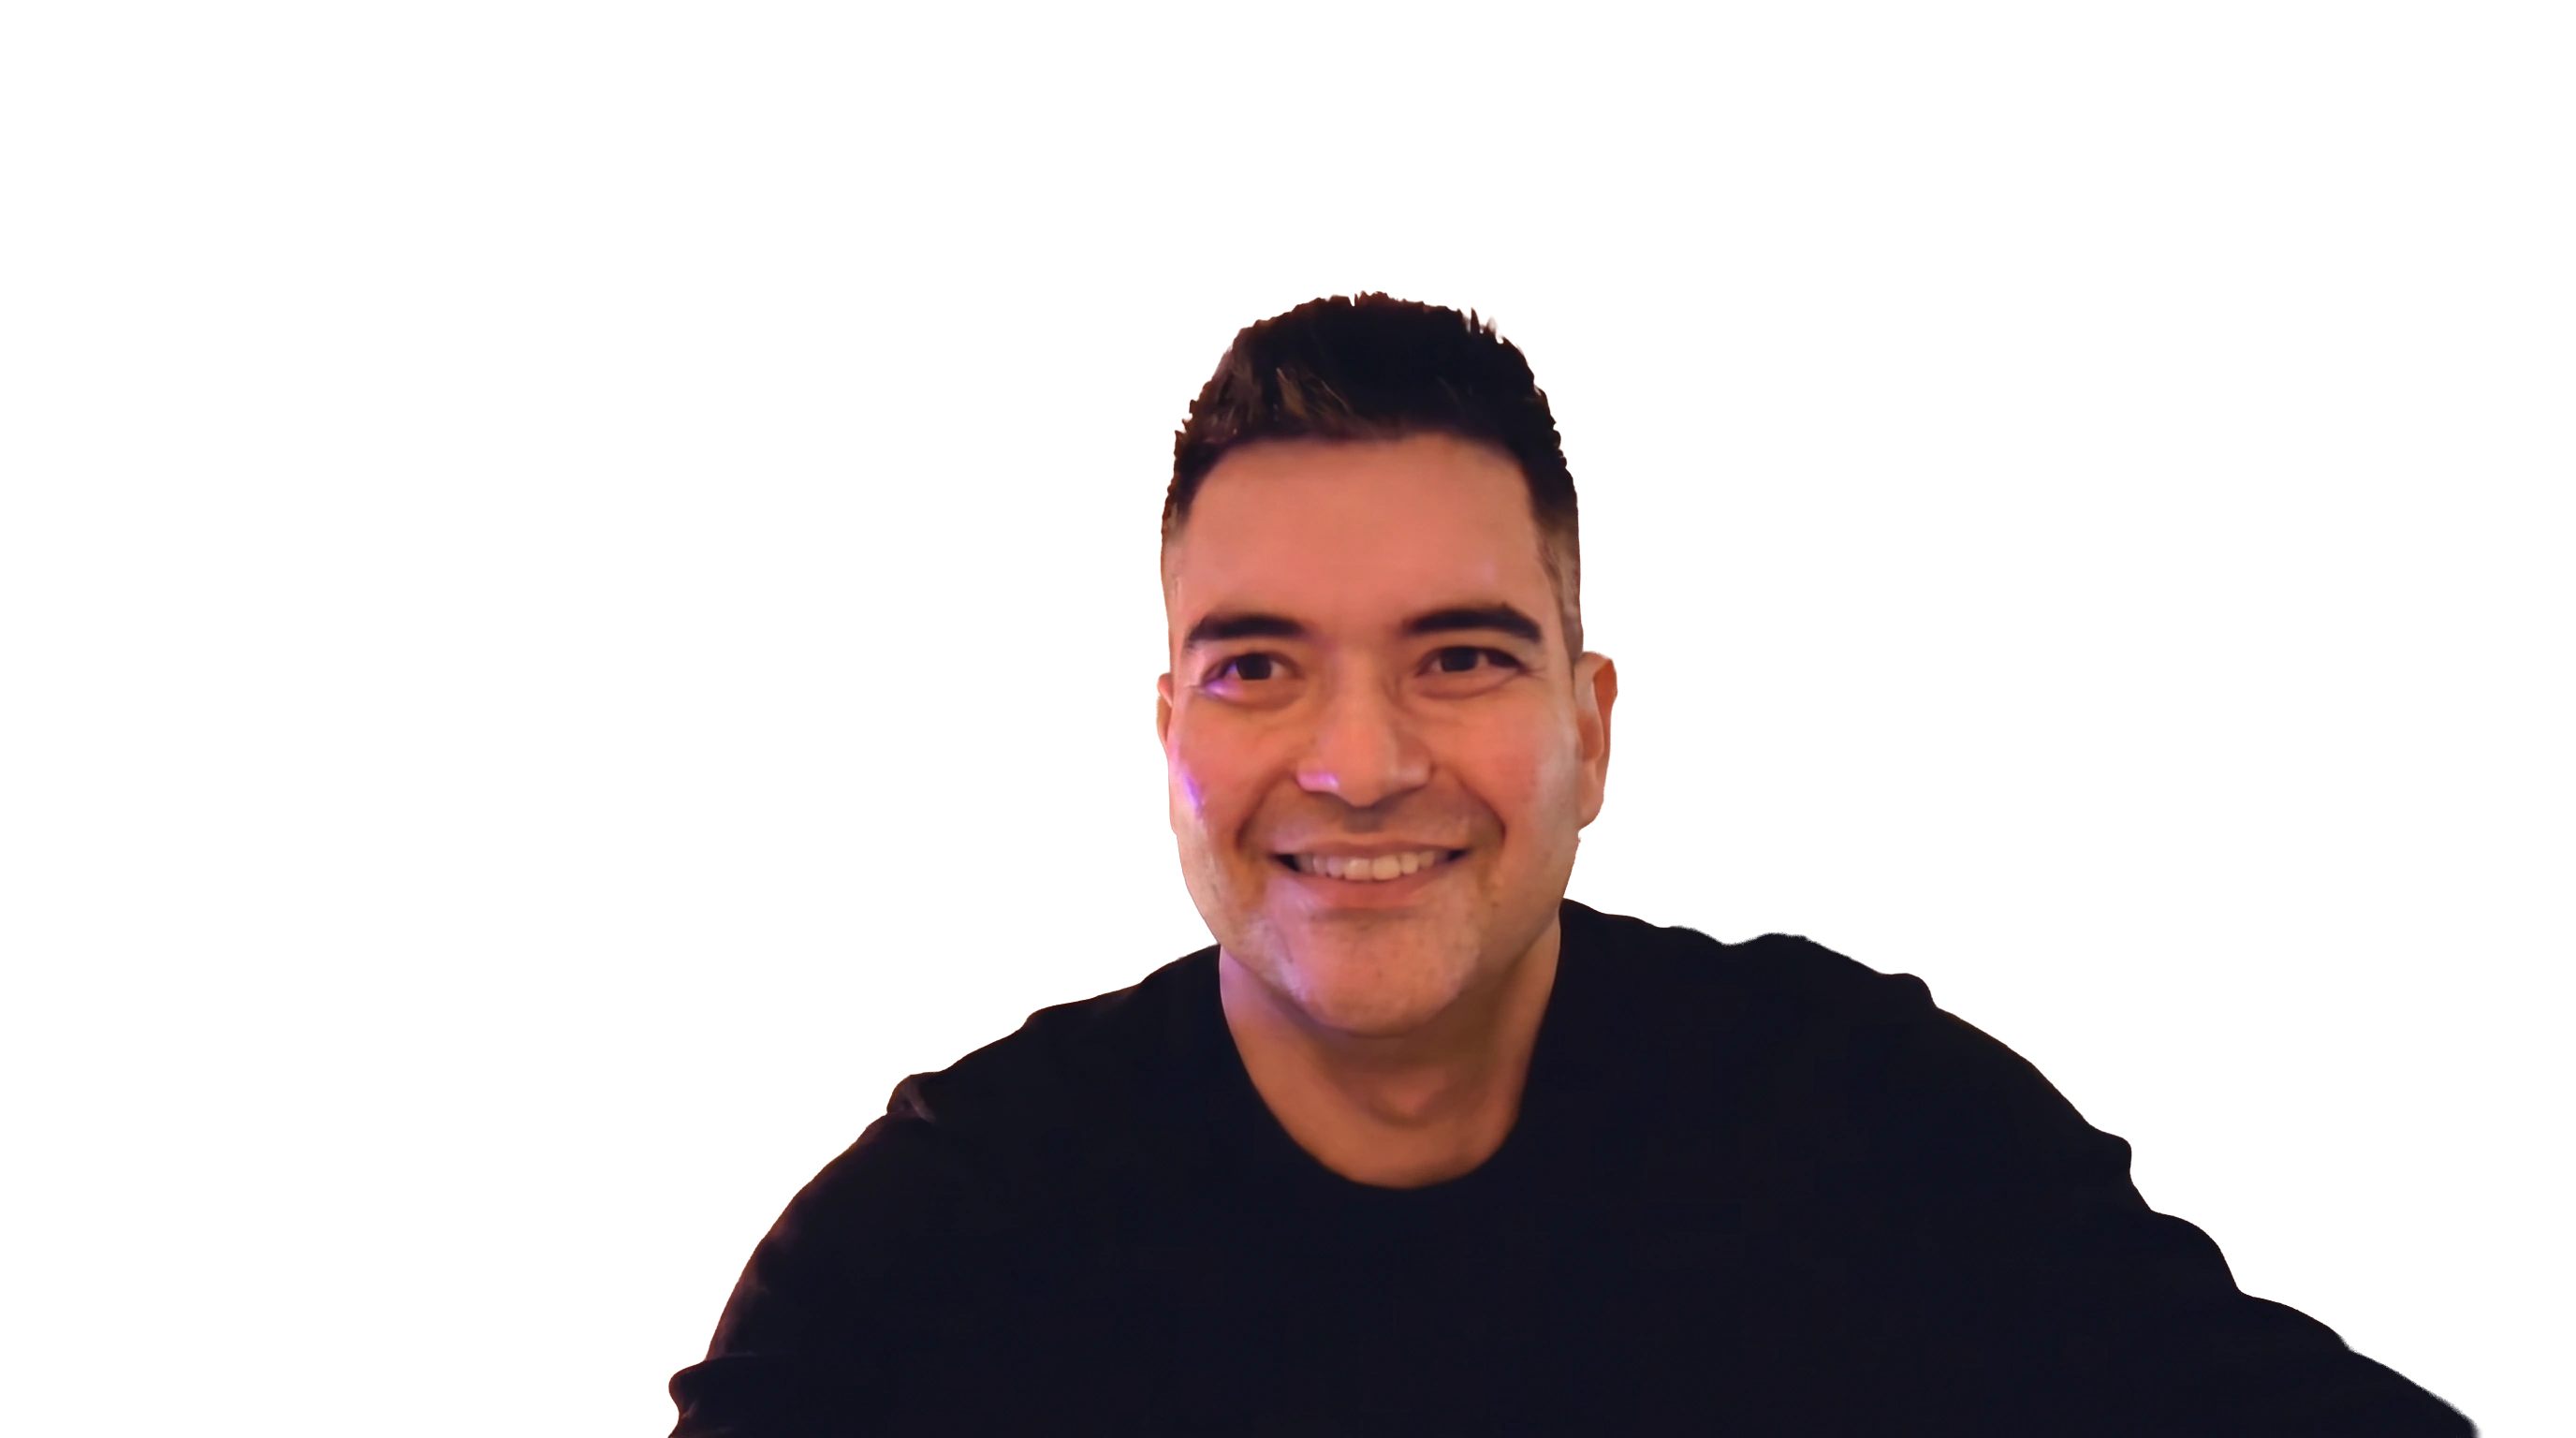
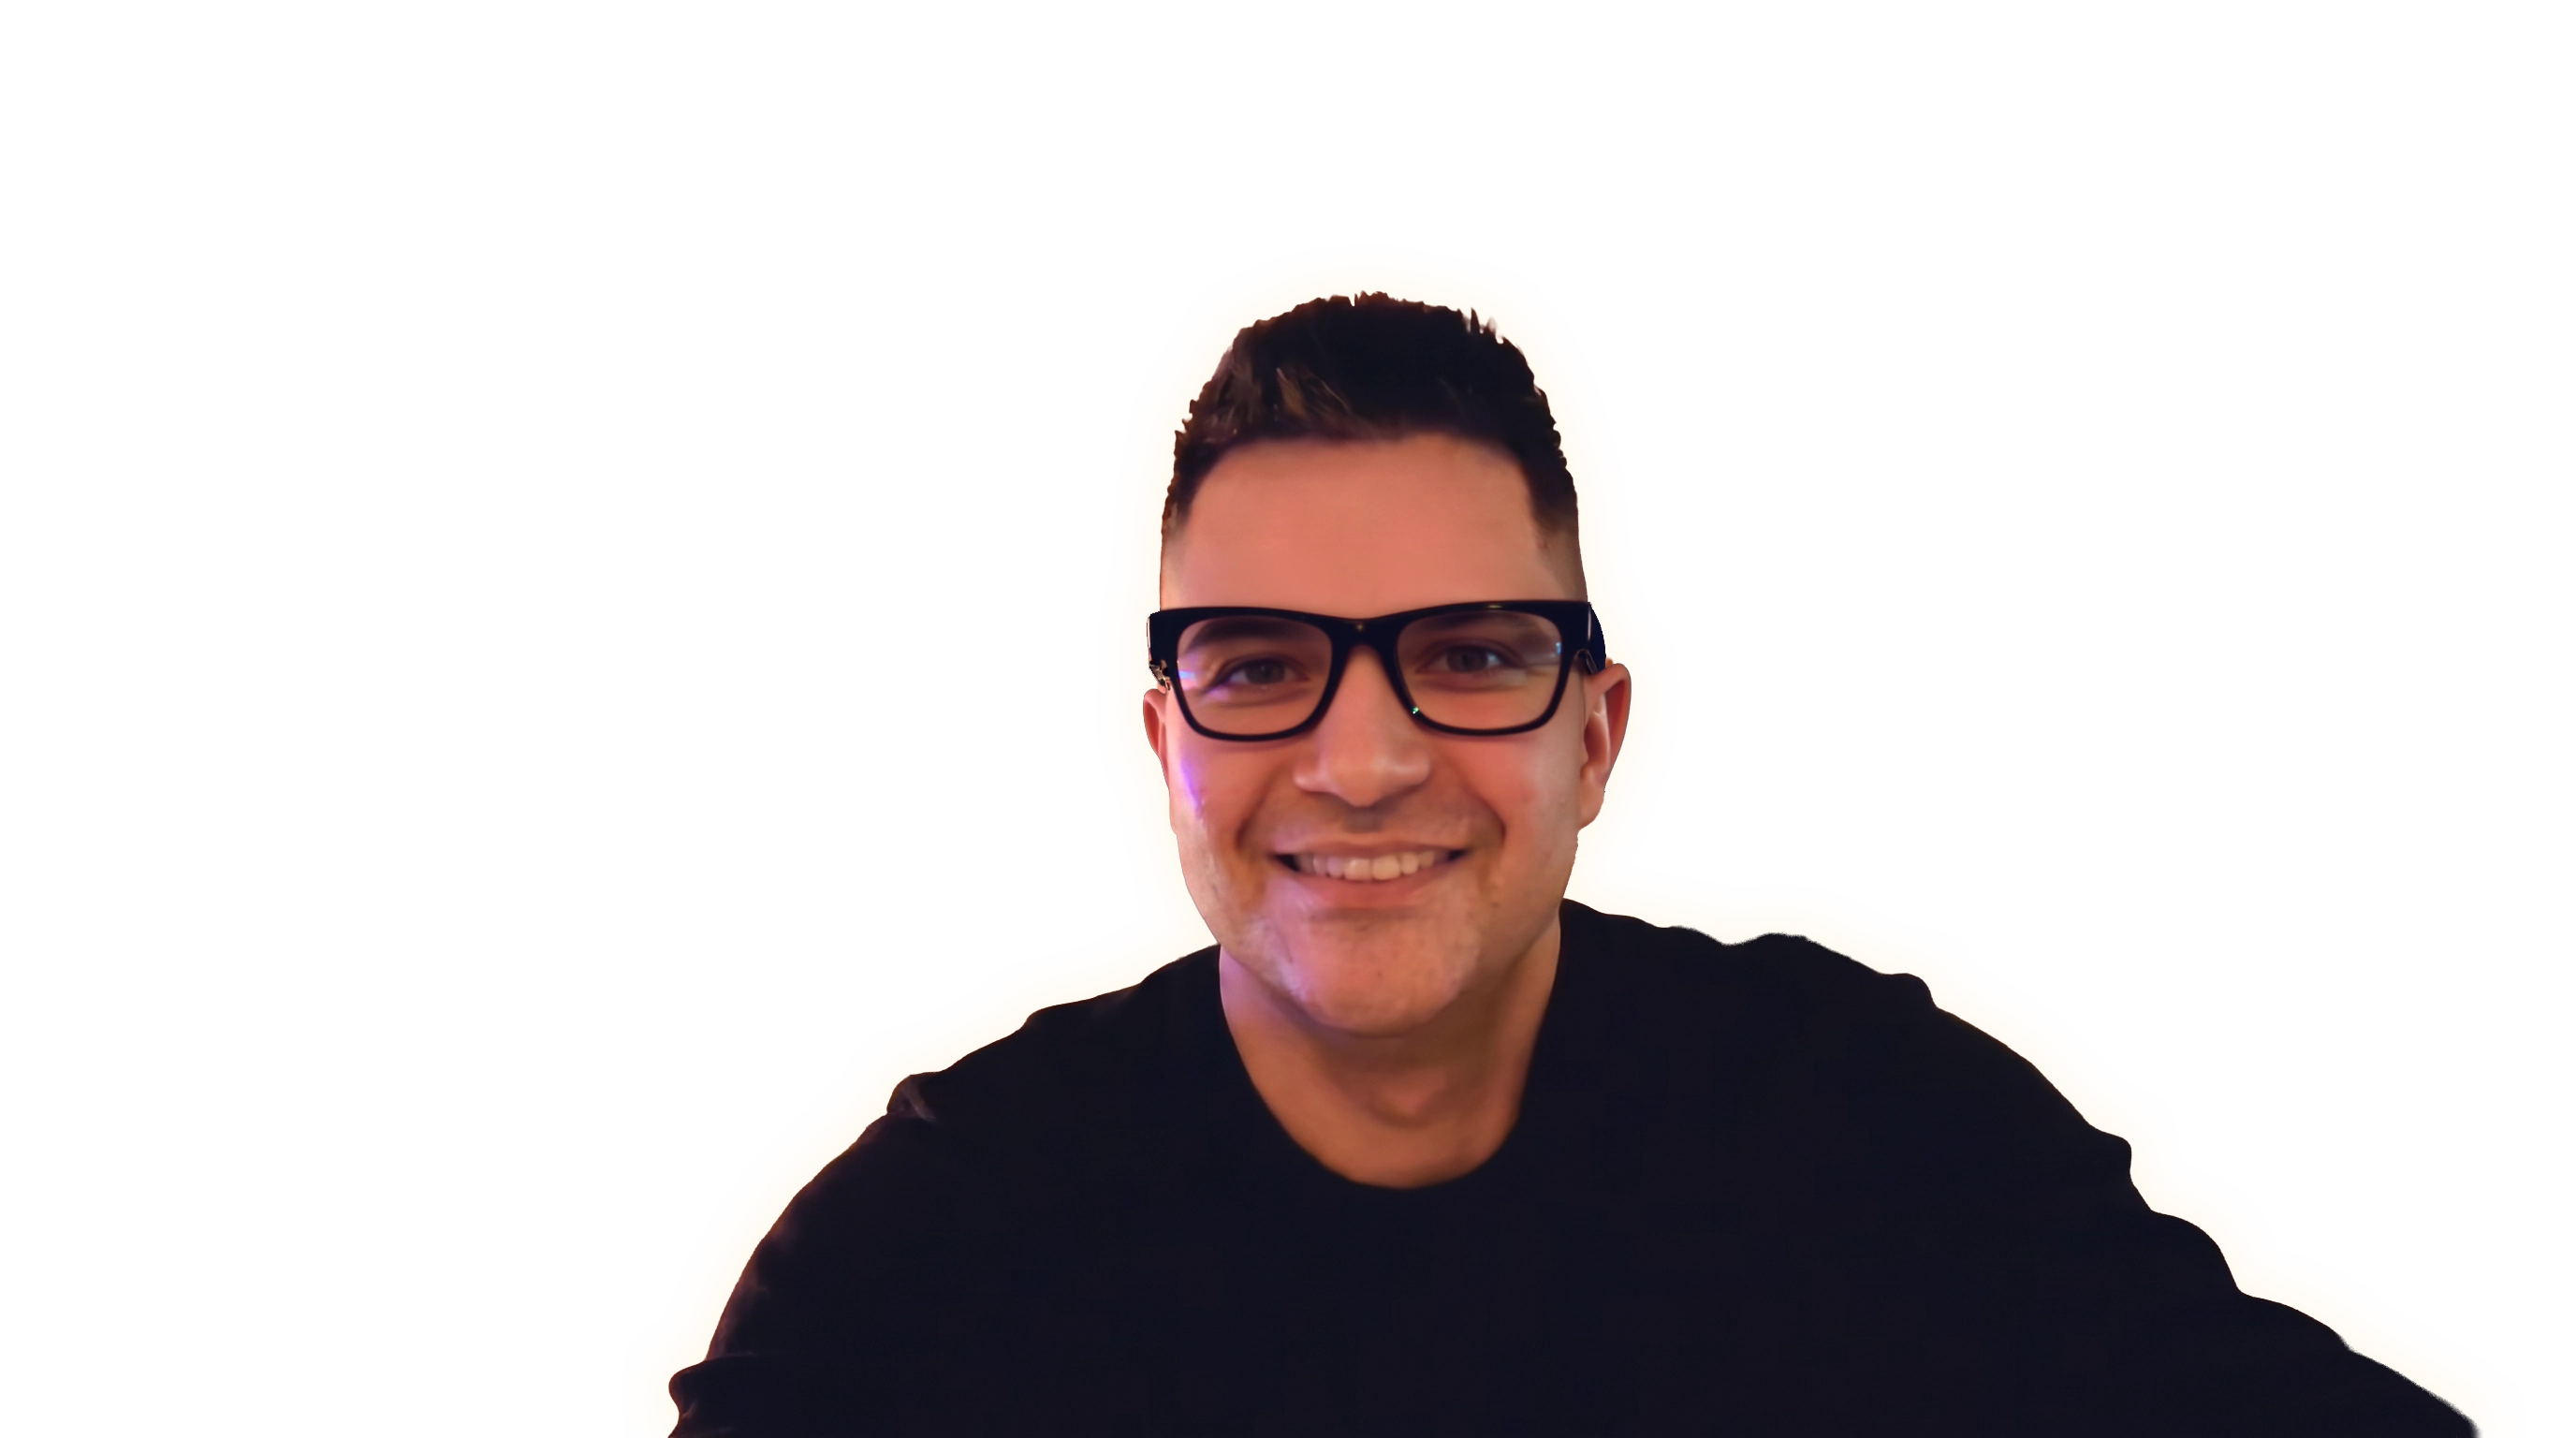
LinkedIn recommendations: carousel above The Work + full quotes in Enjin panel; new hero underlay; localPatterns for versioned images

Changed region(s): [[0.4375, 0.375, 0.6562, 0.5625]]

diff --git a/src/components/RecommendationsCarousel.tsx b/src/components/RecommendationsCarousel.tsx
@@ -1,0 +1,78 @@
+"use client";
+
+import { useState } from "react";
+import Image from "next/image";
+import { motion } from "framer-motion";
+import { recommendations } from "@/data/recommendations";
+import { projects } from "@/data/projects";
+import ProjectPanel from "@/components/ProjectPanel";
+
+/**
+ * Compact horizontal carousel of LinkedIn recommendations, shown above
+ * The Work. Clicking a card opens the Enjin story (where the full quotes
+ * live, linking out to LinkedIn).
+ */
+export default function RecommendationsCarousel() {
+  const [open, setOpen] = useState(false);
+  const enjin = projects.find((p) => p.id === "enjin") ?? null;
+
+  return (
+    <section className="relative pb-20">
+      <div className="mx-auto max-w-7xl px-6">
+        <p className="text-center text-xs tracking-[0.35em] uppercase text-muted">
+          What colleagues say
+        </p>
+
+        <div className="mt-8 flex snap-x snap-mandatory gap-4 overflow-x-auto pb-2 lg:grid lg:grid-cols-3 lg:overflow-visible">
+          {recommendations.map((rec, i) => (
+            <motion.button
+              key={rec.name}
+              type="button"
+              onClick={() => setOpen(true)}
+              initial={{ opacity: 0, y: 24 }}
+              whileInView={{ opacity: 1, y: 0 }}
+              viewport={{ once: true, margin: "-60px" }}
+              transition={{ duration: 0.5, delay: i * 0.1, ease: "easeOut" }}
+              className="group w-[85%] shrink-0 snap-center cursor-pointer rounded-2xl border border-white/10 bg-white/[0.04] p-6 text-left backdrop-blur-sm transition-all duration-300 hover:-translate-y-1 hover:border-white/25 hover:bg-white/[0.07] hover:shadow-[0_10px_50px_-12px_var(--glow-1-soft)] sm:w-[45%] lg:w-auto"
+            >
+              <div className="flex items-center gap-3">
+                <Image
+                  src={rec.avatar}
+                  alt={rec.name}
+                  width={44}
+                  height={44}
+                  className="rounded-full border border-white/15"
+                />
+                <div>
+                  <p className="text-sm font-semibold text-white">{rec.name}</p>
+                  <p className="text-xs text-muted">{rec.title}</p>
+                </div>
+              </div>
+              <p className="mt-4 text-sm leading-relaxed text-foreground/75 line-clamp-3">
+                <span className="text-accent-1" aria-hidden>
+                  &ldquo;
+                </span>
+                {rec.quote}
+              </p>
+              <span className="mt-4 inline-flex items-center gap-2 text-xs font-medium text-accent-2 transition-colors group-hover:text-white">
+                Read the Enjin story
+                <span
+                  aria-hidden
+                  className="transition-transform duration-300 group-hover:translate-x-1"
+                >
+                  →
+                </span>
+              </span>
+            </motion.button>
+          ))}
+        </div>
+      </div>
+
+      <ProjectPanel
+        project={open ? enjin : null}
+        side="right"
+        onClose={() => setOpen(false)}
+      />
+    </section>
+  );
+}

diff --git a/src/components/ProjectPanel.tsx b/src/components/ProjectPanel.tsx
@@ -257,6 +257,74 @@ export default function ProjectPanel({
                   </span>
                 ))}
               </div>
+
+              {project.recommendations && (
+                <div className="mt-10">
+                  <h4
+                    className={`font-display text-xl font-semibold ${
+                      brand ? "" : "text-white"
+                    }`}
+                    style={{ color: fg }}
+                  >
+                    LinkedIn recommendations
+                  </h4>
+                  <div className="mt-4 space-y-4 pb-2">
+                    {project.recommendations.map((rec) => (
+                      <a
+                        key={rec.name}
+                        href={rec.linkedin}
+                        target="_blank"
+                        rel="noopener noreferrer"
+                        className={`group block rounded-xl border p-5 transition-all duration-200 hover:-translate-y-0.5 ${
+                          brand
+                            ? "border-black/10 bg-black/[0.03] hover:border-black/25"
+                            : "border-white/10 bg-white/[0.04] hover:border-white/25"
+                        }`}
+                      >
+                        <div className="flex items-center gap-3">
+                          {/* eslint-disable-next-line @next/next/no-img-element */}
+                          <img
+                            src={rec.avatar}
+                            alt={rec.name}
+                            width={44}
+                            height={44}
+                            className={`rounded-full border ${
+                              brand ? "border-black/10" : "border-white/15"
+                            }`}
+                          />
+                          <div className="min-w-0 flex-1">
+                            <p
+                              className={`text-sm font-semibold ${
+                                brand ? "" : "text-white"
+                              }`}
+                              style={{ color: fg }}
+                            >
+                              {rec.name}
+                            </p>
+                            <p className="text-xs" style={{ color: subtle }}>
+                              {rec.title} · {rec.relationship}
+                            </p>
+                          </div>
+                          <span
+                            className="shrink-0 text-xs font-medium opacity-0 transition-opacity duration-200 group-hover:opacity-100"
+                            style={{ color: accent }}
+                          >
+                            View on LinkedIn ↗
+                          </span>
+                        </div>
+                        <p
+                          className={`mt-3 whitespace-pre-line text-sm leading-relaxed ${
+                            brand ? "" : "text-foreground/80"
+                          }`}
+                          style={{ color: body }}
+                        >
+                          {rec.quote}
+                        </p>
+                      </a>
+                    ))}
+                  </div>
+                </div>
+              )}
             </div>
 
             {/* Footer link */}

diff --git a/src/data/recommendations.ts b/src/data/recommendations.ts
@@ -1,0 +1,49 @@
+/**
+ * ─── RECOMMENDATIONS ──────────────────────────────────────────────────────────
+ * Real LinkedIn recommendations, hand-copied (LinkedIn has no embed API).
+ * Shown in the carousel above The Work (click -> opens the Enjin story) and
+ * in full at the bottom of the Enjin panel (click -> LinkedIn profile).
+ * Avatars are saved locally in public/recommendations/ because LinkedIn CDN
+ * URLs expire. Array order = display order.
+ * ──────────────────────────────────────────────────────────────────────────────
+ */
+
+export type Recommendation = {
+  name: string;
+  title: string;
+  /** e.g. "Managed Simon directly" */
+  relationship: string;
+  quote: string;
+  avatar: string;
+  linkedin: string;
+};
+
+export const recommendations: Recommendation[] = [
+  {
+    name: "Bryana Kortendick",
+    title: "Vice-President of Operations at Enjin",
+    relationship: "Worked with Simon on the same team",
+    quote:
+      "Quite simply, Simon has it all. He is one of the most well-rounded, talented, and kind individuals I've had the pleasure of working with. Not only is he a brilliant marketer and creative storyteller, he's also technical, with a mind for development and burgeoning technologies. He has thrived in every role I've seen him take on, from PR and social media to community development, developer relations, and business founder. There is no one I'd trust more to lead my creative marketing, communications, and growth efforts.",
+    avatar: "/recommendations/bryana.jpg",
+    linkedin: "https://www.linkedin.com/in/bryanakortendick/",
+  },
+  {
+    name: "Ilija Rolovic",
+    title: "Chief Marketing Officer at Enjin",
+    relationship: "Managed Simon directly",
+    quote:
+      "I've worked with Simon for several years on multiple web3 projects. He's one of the most competent, creative, and hard-working colleagues I've ever had. He's ready to listen, challenge ideas, and collaborate closely, yet he's equally capable of leading the charge. Simon isn't afraid, he's driven, to make bold bets and explore novel ideas. If you're reading this and considering Simon as a potential business partner or team member, take my advice: hop on a chat with him. It'll take you about 10 minutes to see exactly what I mean.",
+    avatar: "/recommendations/ilija.jpg",
+    linkedin: "https://www.linkedin.com/in/ilijarolovic/",
+  },
+  {
+    name: "Micael Gallegos",
+    title: "Social Media Manager at Enjin",
+    relationship: "Reported to Simon directly",
+    quote:
+      "I am honored to recommend Simon Kertonegoro, an extraordinary leader and visionary in the Web3 space. I had the privilege of working closely with Simon during my time at Enjin, where his mentorship profoundly shaped my professional journey.\n\nSimon exemplifies the power of hard work and passion. His ability to lead teams, inspire innovation, and tackle challenges with enthusiasm has left a lasting impression on me. He possesses an innate ability to simplify complex ideas, making him an exceptional educator and motivator.\n\nNow, with seven years of experience in Web3, I can confidently say that Simon's guidance laid the foundation for my career. He continues to be an inspiration, and I am grateful for the opportunity to have worked under his leadership.\n\nSimon is a phenomenal professional and mentor. I wholeheartedly recommend him for any endeavor.",
+    avatar: "/recommendations/micael.jpg",
+    linkedin: "https://www.linkedin.com/in/micael-gallegos-02637a92/",
+  },
+];

diff --git a/src/data/projects.ts b/src/data/projects.ts
@@ -6,6 +6,11 @@
  * ──────────────────────────────────────────────────────────────────────────────
  */
 
+import {
+  recommendations,
+  type Recommendation,
+} from "@/data/recommendations";
+
 export type Project = {
   /** unique slug, used as the React key */
   id: string;
@@ -35,6 +40,8 @@ export type Project = {
   hidden?: boolean;
   /** optional embedded video at the top of the detail panel (Vimeo player URL) */
   video?: string;
+  /** optional LinkedIn recommendations shown at the bottom of the panel */
+  recommendations?: Recommendation[];
   /**
    * Branding for the card + detail panel. When present, the card renders as
    * a light "ad" for the platform: its logo, its colors, white background.
@@ -419,6 +426,7 @@ export const projects: Project[] = [
       "Unity SDK",
     ],
     video: "https://www.youtube.com/embed/17-1c4mOIrk",
+    recommendations,
     link: { label: "enjin.io", href: "https://enjin.io" },
     brand: {
       logo: "/logos/enjin.webp",

diff --git a/next.config.ts b/next.config.ts
@@ -8,6 +8,8 @@ const nextConfig: NextConfig = {
   images: {
     // allow the hero layers to be served at near-lossless quality
     qualities: [75, 95],
+    // allow ?v= cache-busting on local images
+    localPatterns: [{ pathname: "/**" }],
   },
 };
 

diff --git a/src/app/page.tsx b/src/app/page.tsx
@@ -1,4 +1,5 @@
 import Hero from "@/components/Hero";
+import RecommendationsCarousel from "@/components/RecommendationsCarousel";
 import Stats from "@/components/Stats";
 import StoryCTA from "@/components/StoryCTA";
 import Timeline from "@/components/Timeline";
@@ -8,6 +9,7 @@ export default function Home() {
     <main className="flex-1">
       <Hero />
       <Stats />
+      <RecommendationsCarousel />
       <Timeline />
       <StoryCTA />
       <footer className="border-t border-white/10 py-10 text-center text-sm text-muted">

diff --git a/src/components/Hero.tsx b/src/components/Hero.tsx
@@ -64,7 +64,7 @@ export default function Hero() {
       {/* Bottom layer - Simon */}
       <motion.div style={{ filter: soloFilter }} className="absolute inset-0">
         <Image
-          src="/simon-bg-fade.webp"
+          src="/simon-bg-fade.webp?v=3"
           alt="Simon Kertonegoro"
           fill
           priority